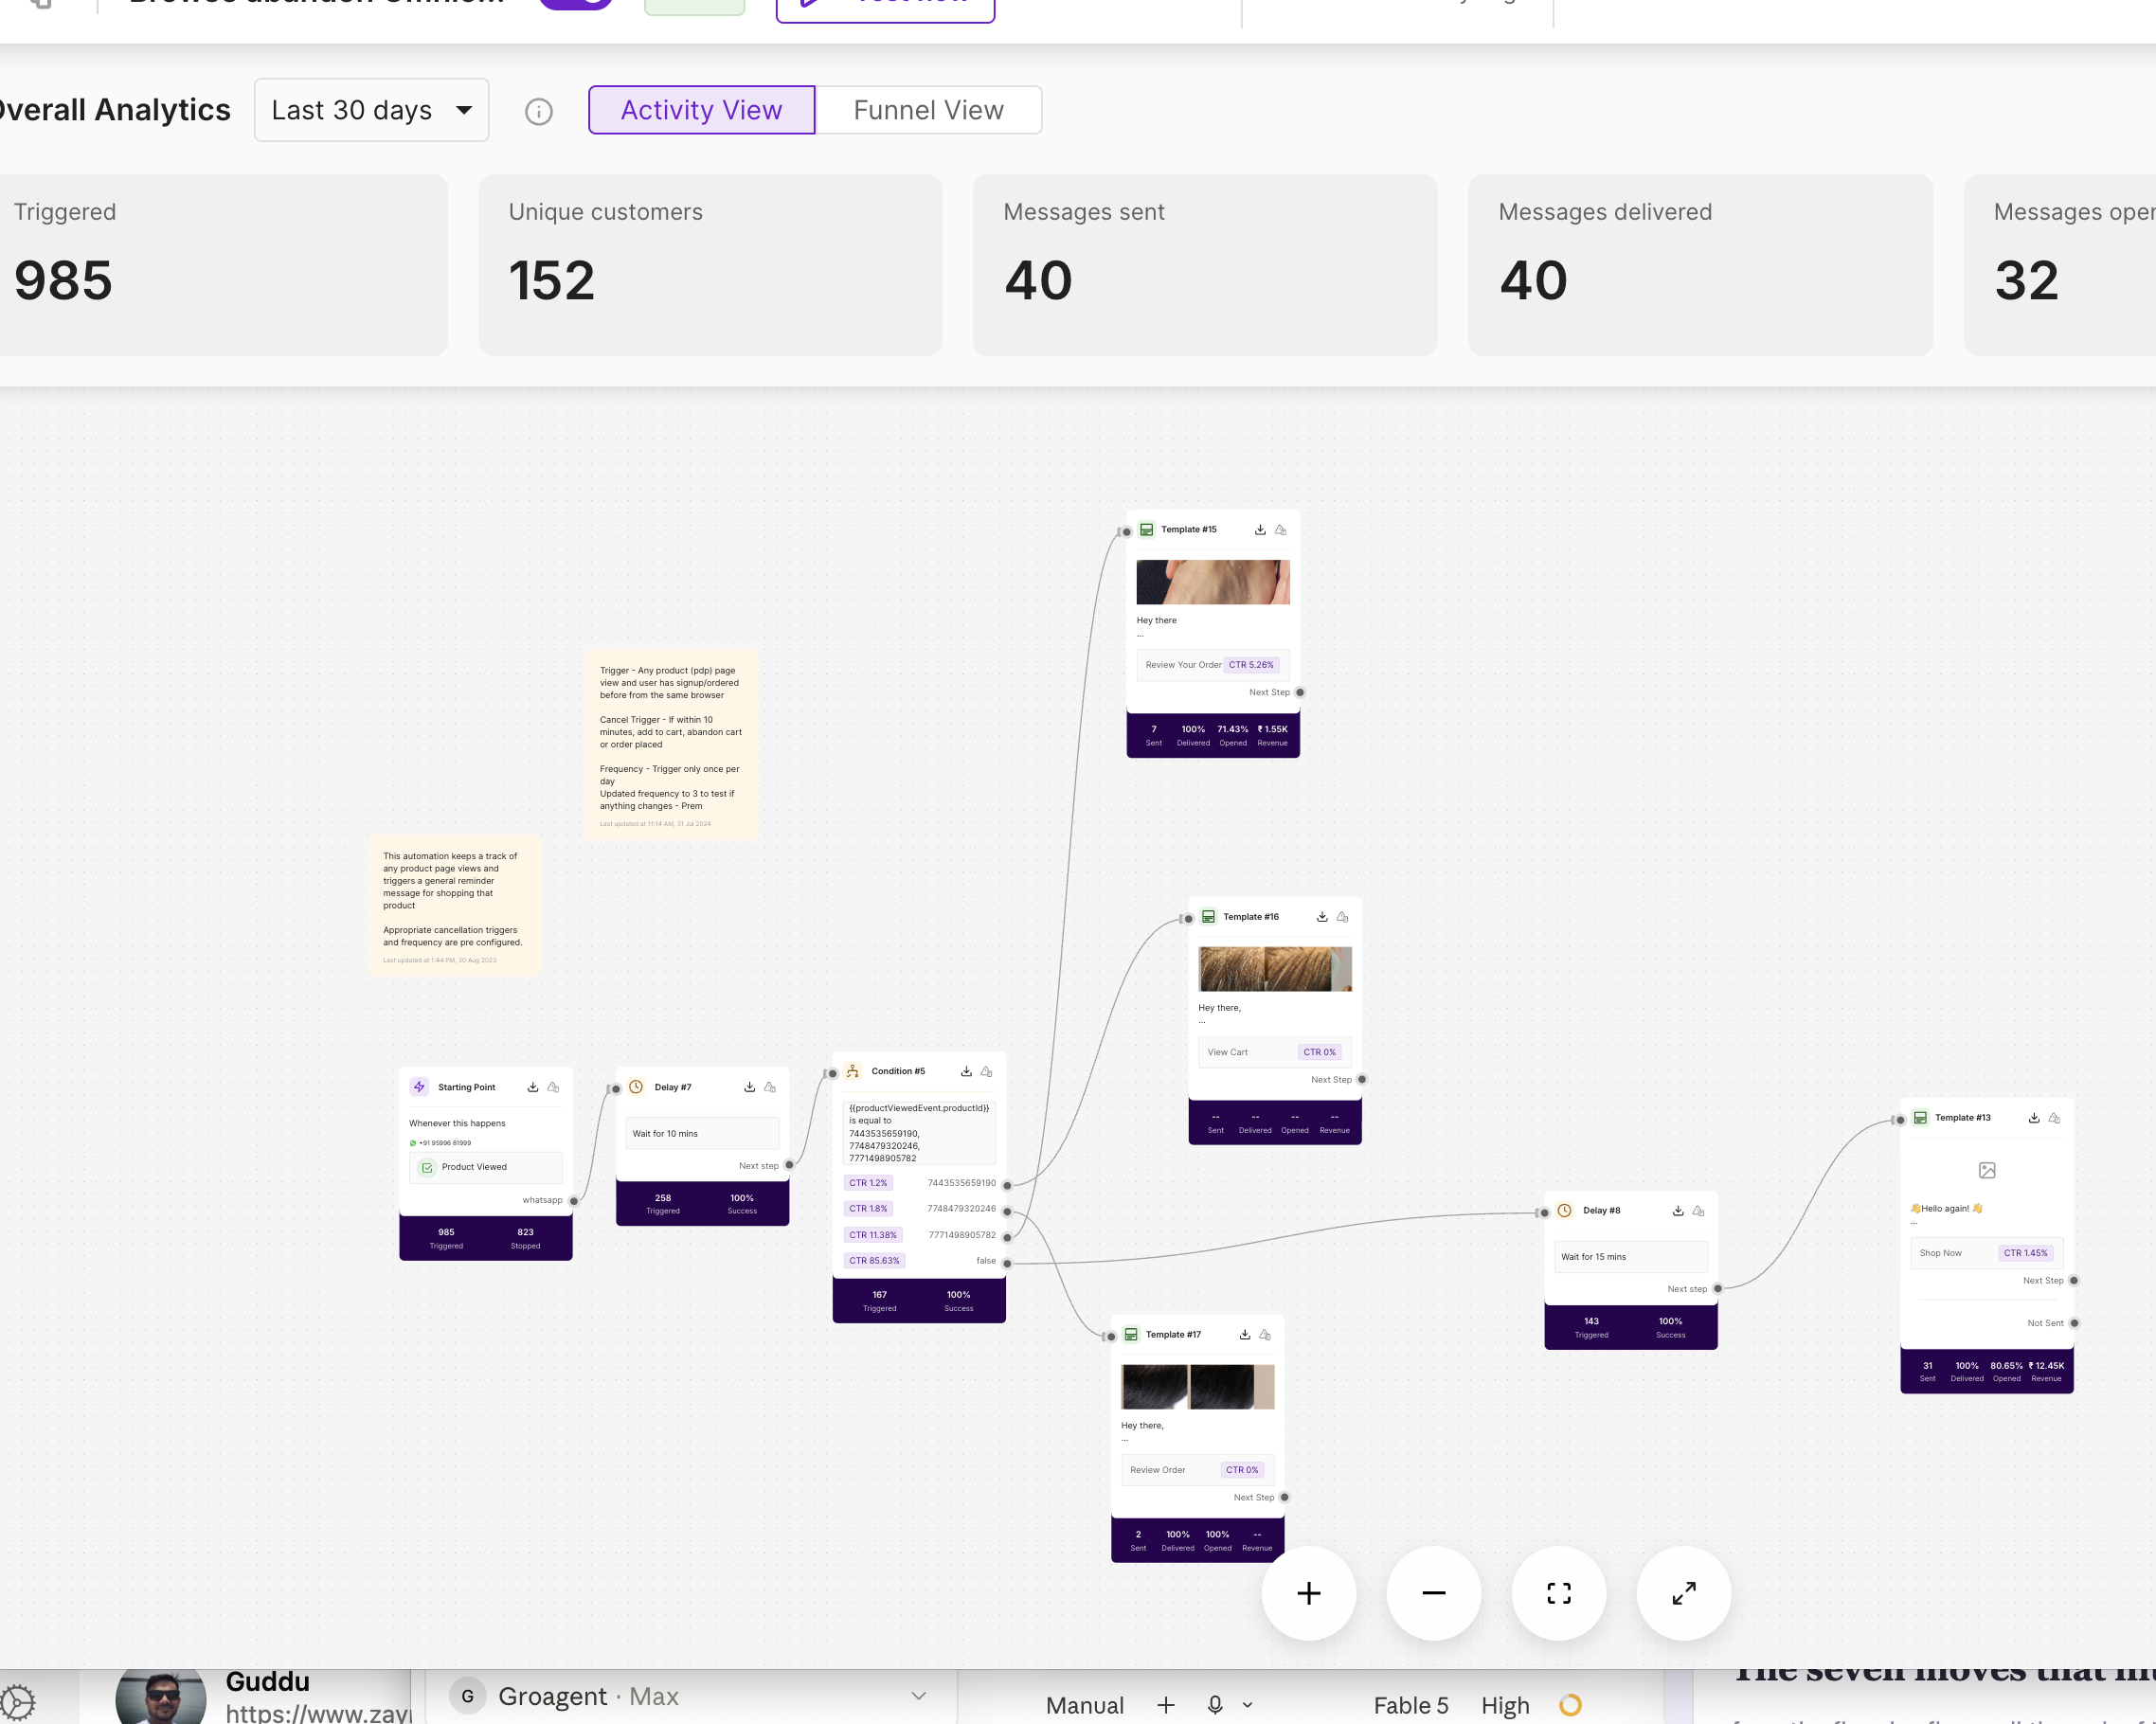
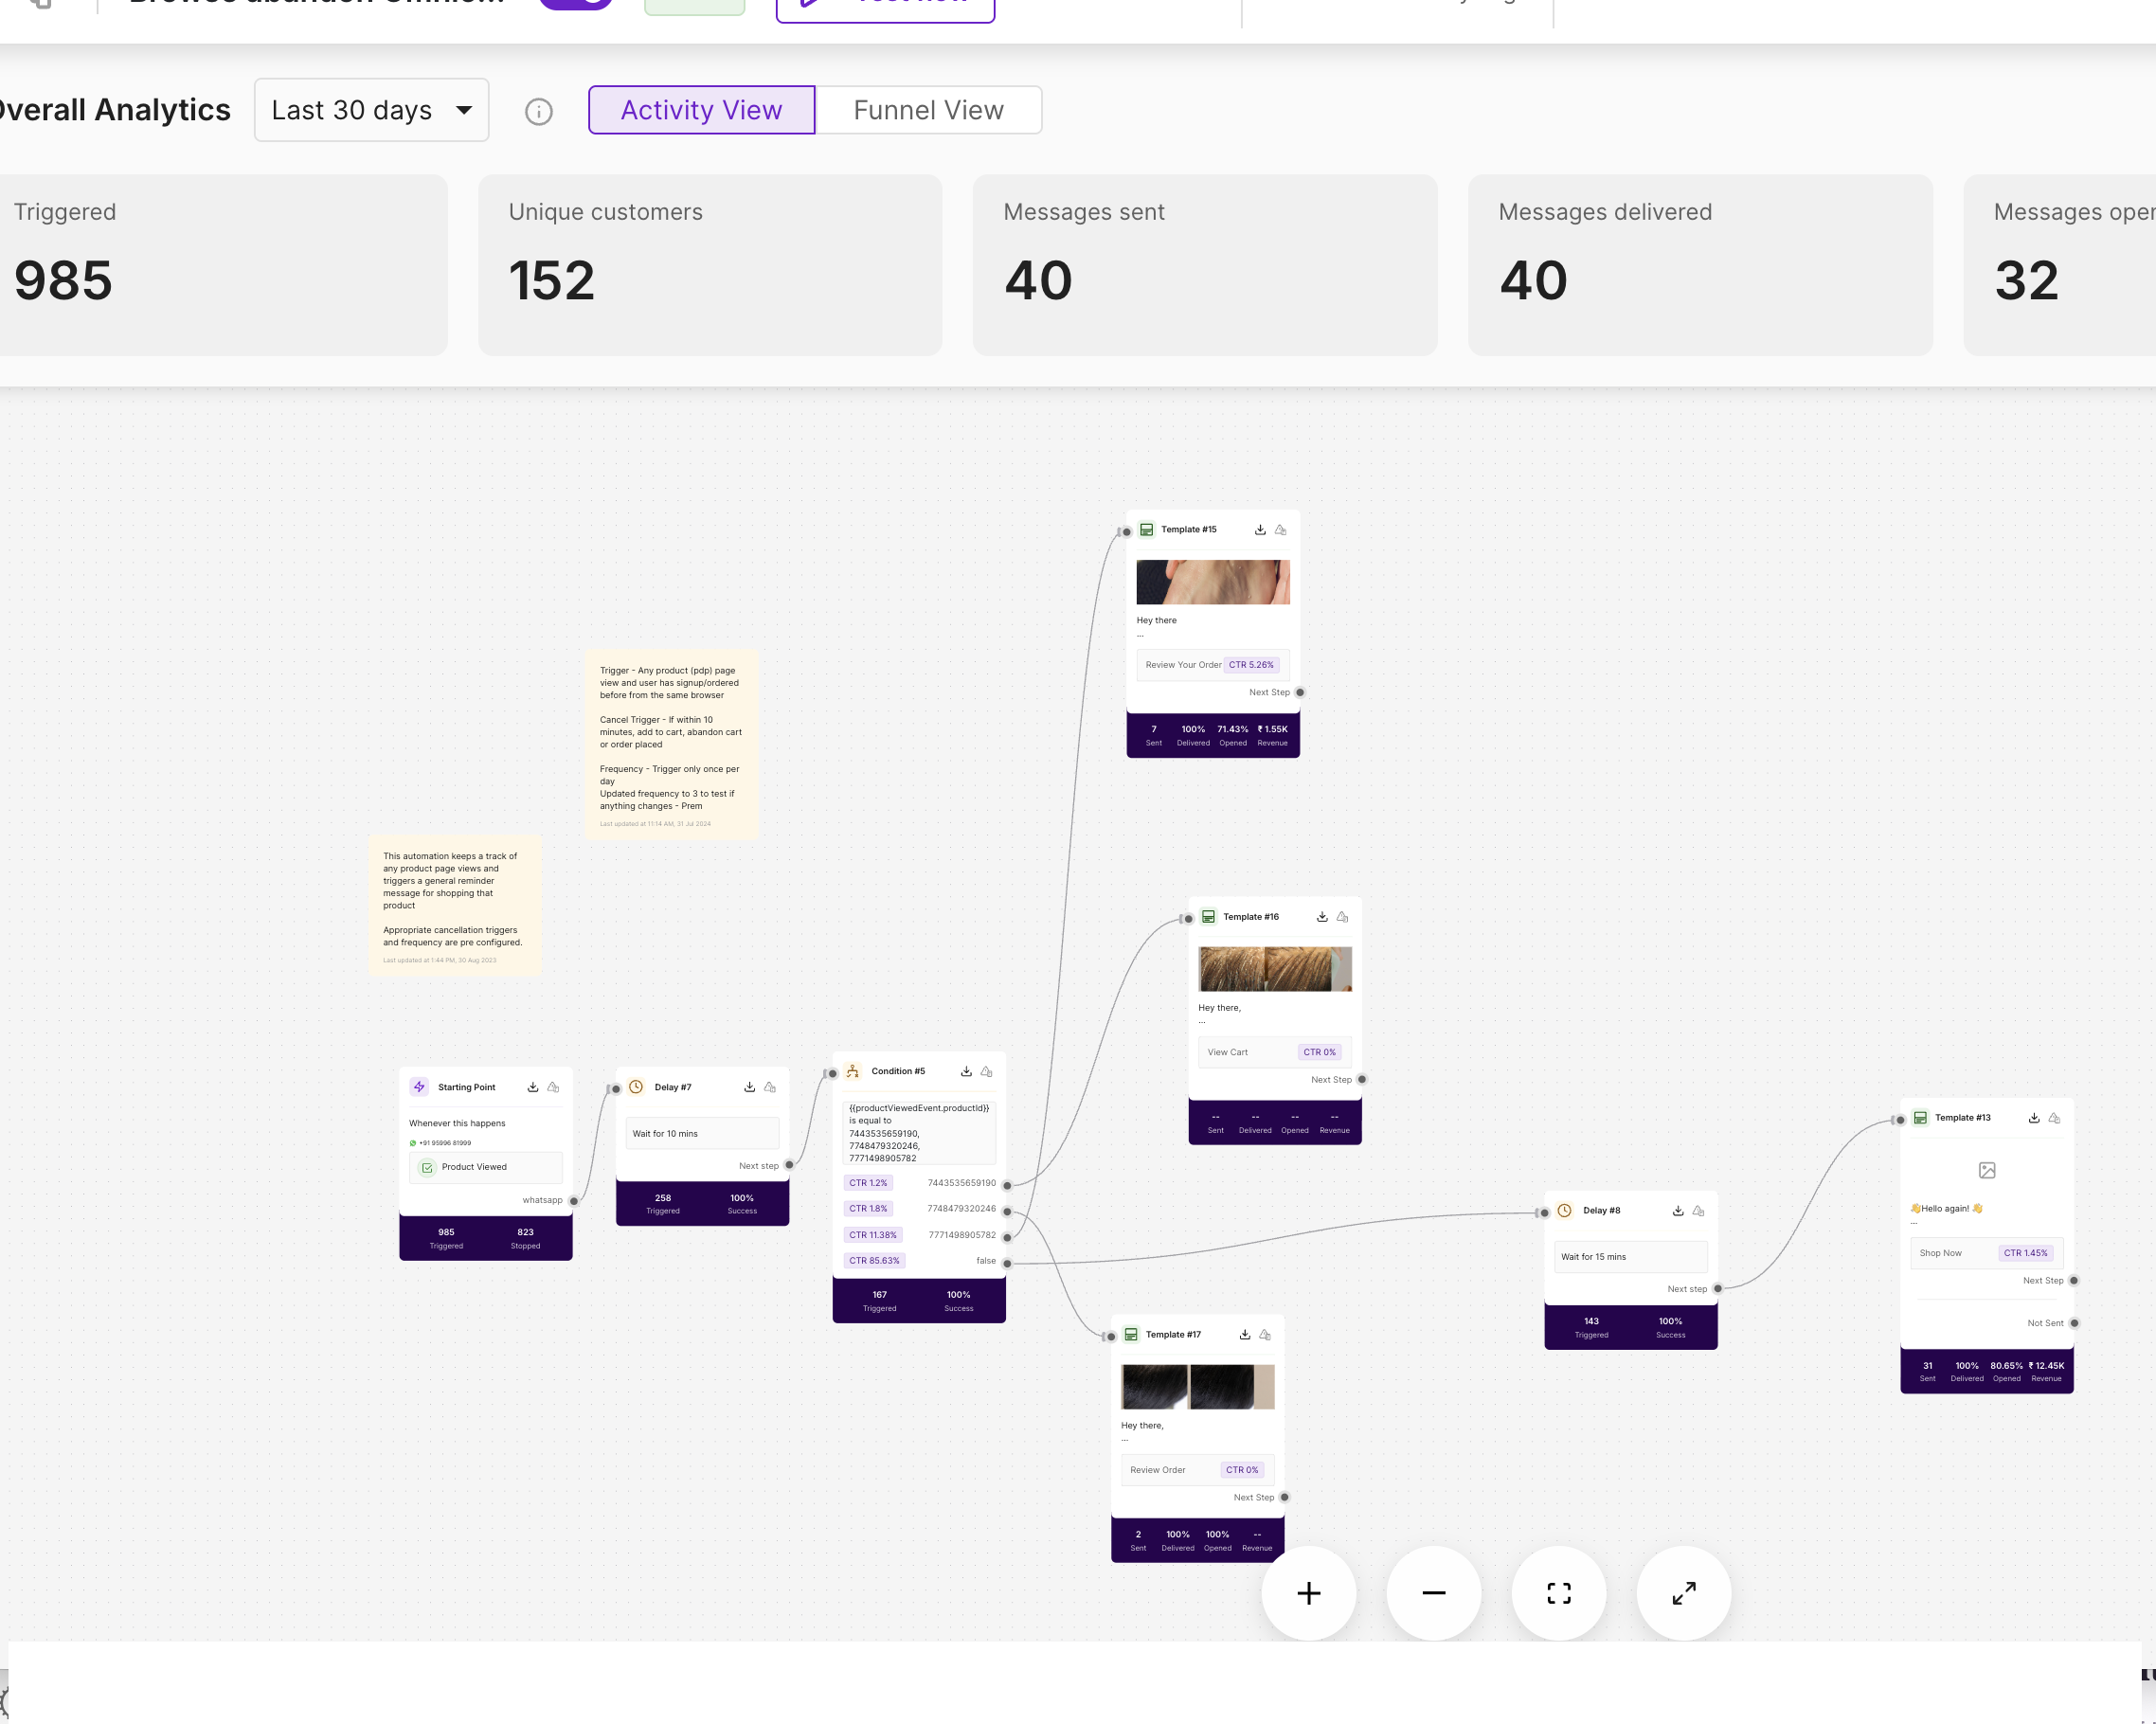
JustHuman: cropped browse-abandonment screenshot; Alia visitor funnel evidence added (12k viewed, 636 email, 582 phone, 116 orders)

Changed region(s): [[0.0, 0.9538, 0.9982, 1.0]]

diff --git a/justhuman/index.html b/justhuman/index.html
@@ -646,8 +646,8 @@
   <div class="card">
     <div class="cardhead"><h2>Evidence · screenshots from the account walkthrough</h2><span class="kicker">captured by Shiwani, 15 July 2026</span></div>
     <figure style="margin:14px 0 0">
-      <img src="evidence/alia-visitor-funnel.png" alt="Alia visitor funnel, last 7 days: 11.9k viewed the popup, 633 submitted email (5%), 579 submitted phone (5%), 116 made an order (1%)." style="max-width:100%;border:1px solid var(--ring);border-radius:8px" onerror="this.style.display='none';this.nextElementSibling.insertAdjacentHTML('afterbegin','<span style=\'color:var(--crit);font-weight:600\'>[ screenshot pending: alia-visitor-funnel.png ] </span>')">
-      <figcaption class="note" style="margin-top:6px">Alia visitor funnel, last 7 days: 11.9k viewed the popup, 633 submitted email (5%), 579 submitted phone (5%), 116 made an order (1%).</figcaption>
+      <img src="evidence/alia-visitor-funnel.png" alt="Alia visitor funnel, last 7 days: 12k viewed the popup, 636 submitted email (5%), 582 submitted phone (5%), 116 made an order (1%)." style="max-width:100%;border:1px solid var(--ring);border-radius:8px" loading="lazy">
+      <figcaption class="note" style="margin-top:6px">Alia visitor funnel, last 7 days: 12k viewed the popup, 636 submitted email (5%), 582 submitted phone (5%), 116 made an order (1%).</figcaption>
     </figure>
 
   </div>